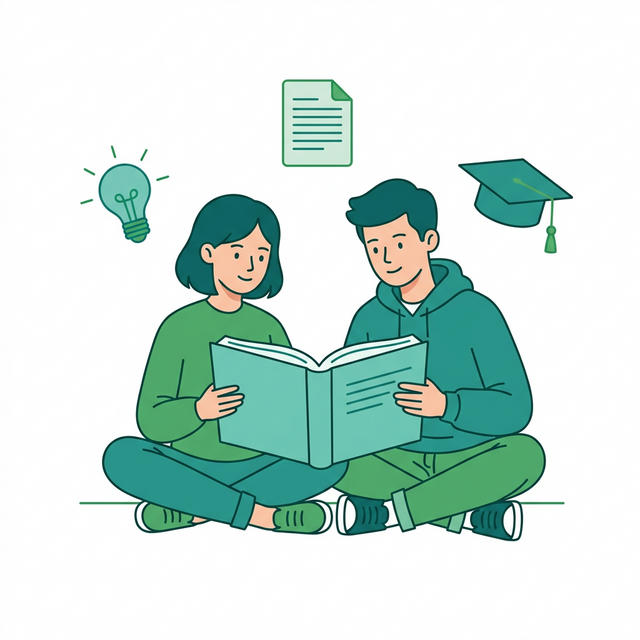
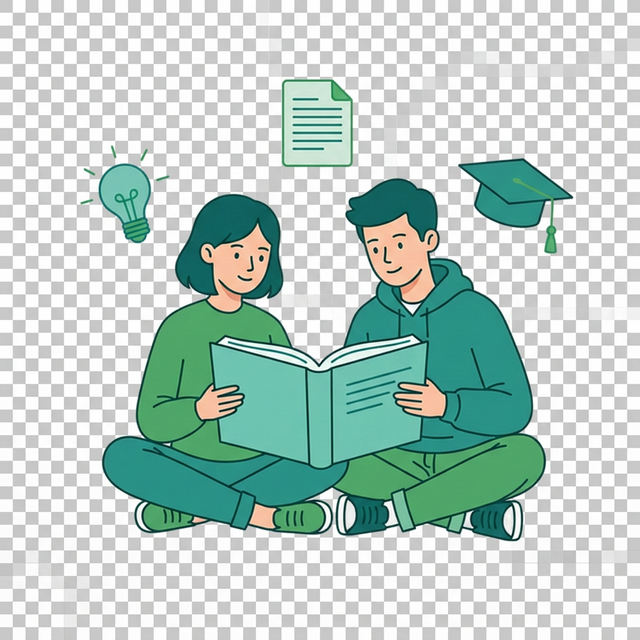
transparent

diff --git a/src/views/HomeView.vue b/src/views/HomeView.vue
@@ -559,7 +559,7 @@
   }
 
   .hero-illustration {
-    mix-blend-mode: screen;
+    mix-blend-mode: normal;
   }
 }
 
